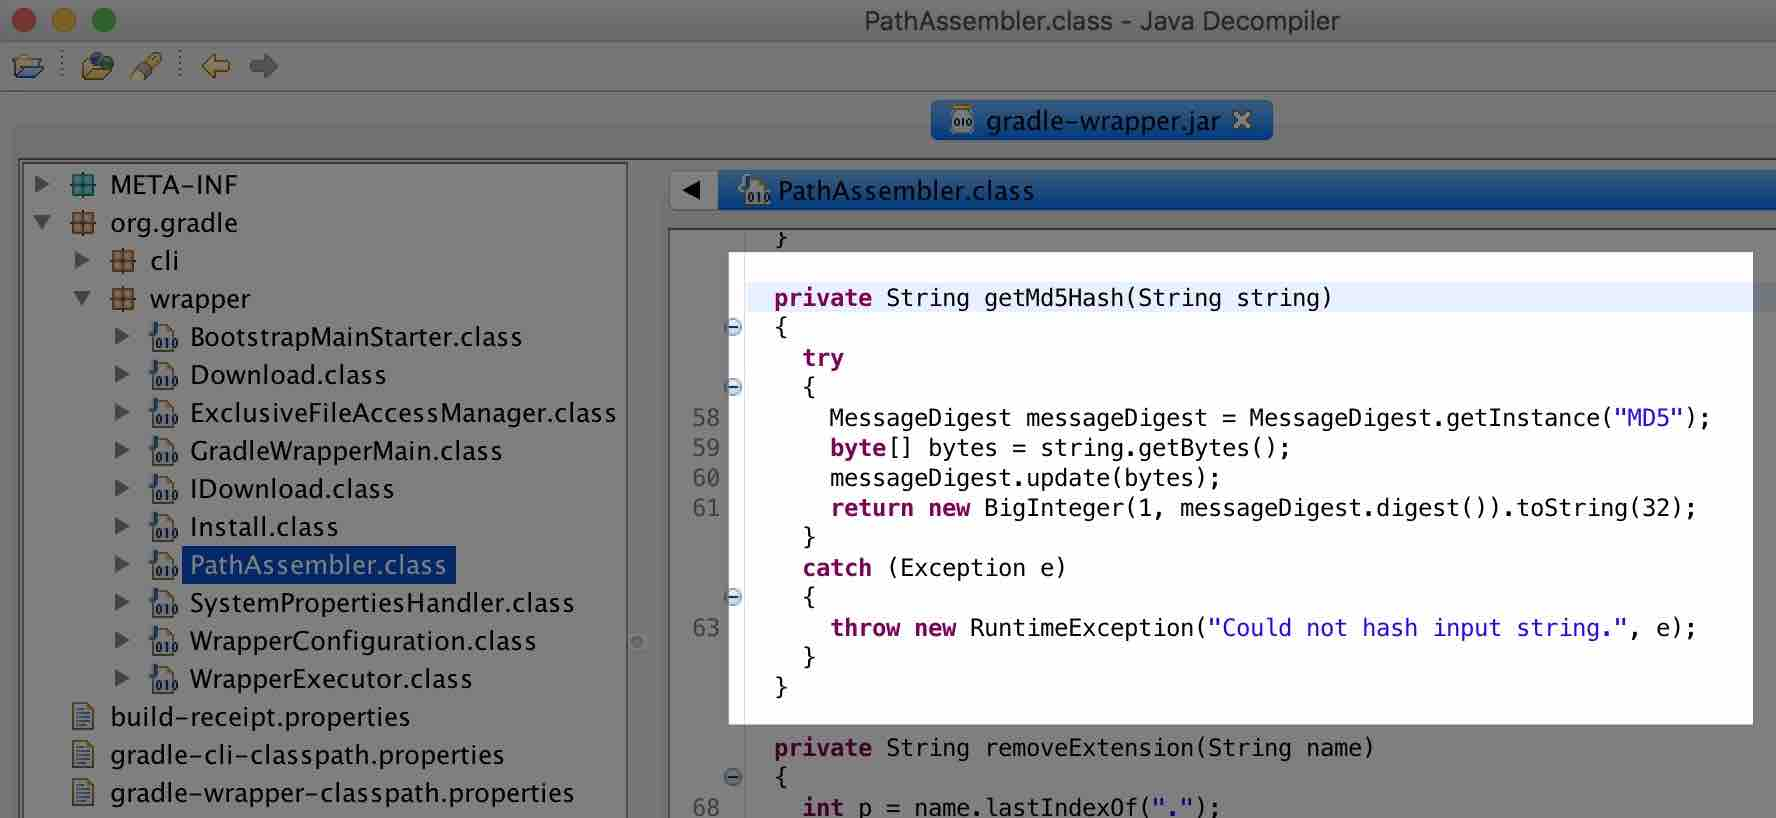
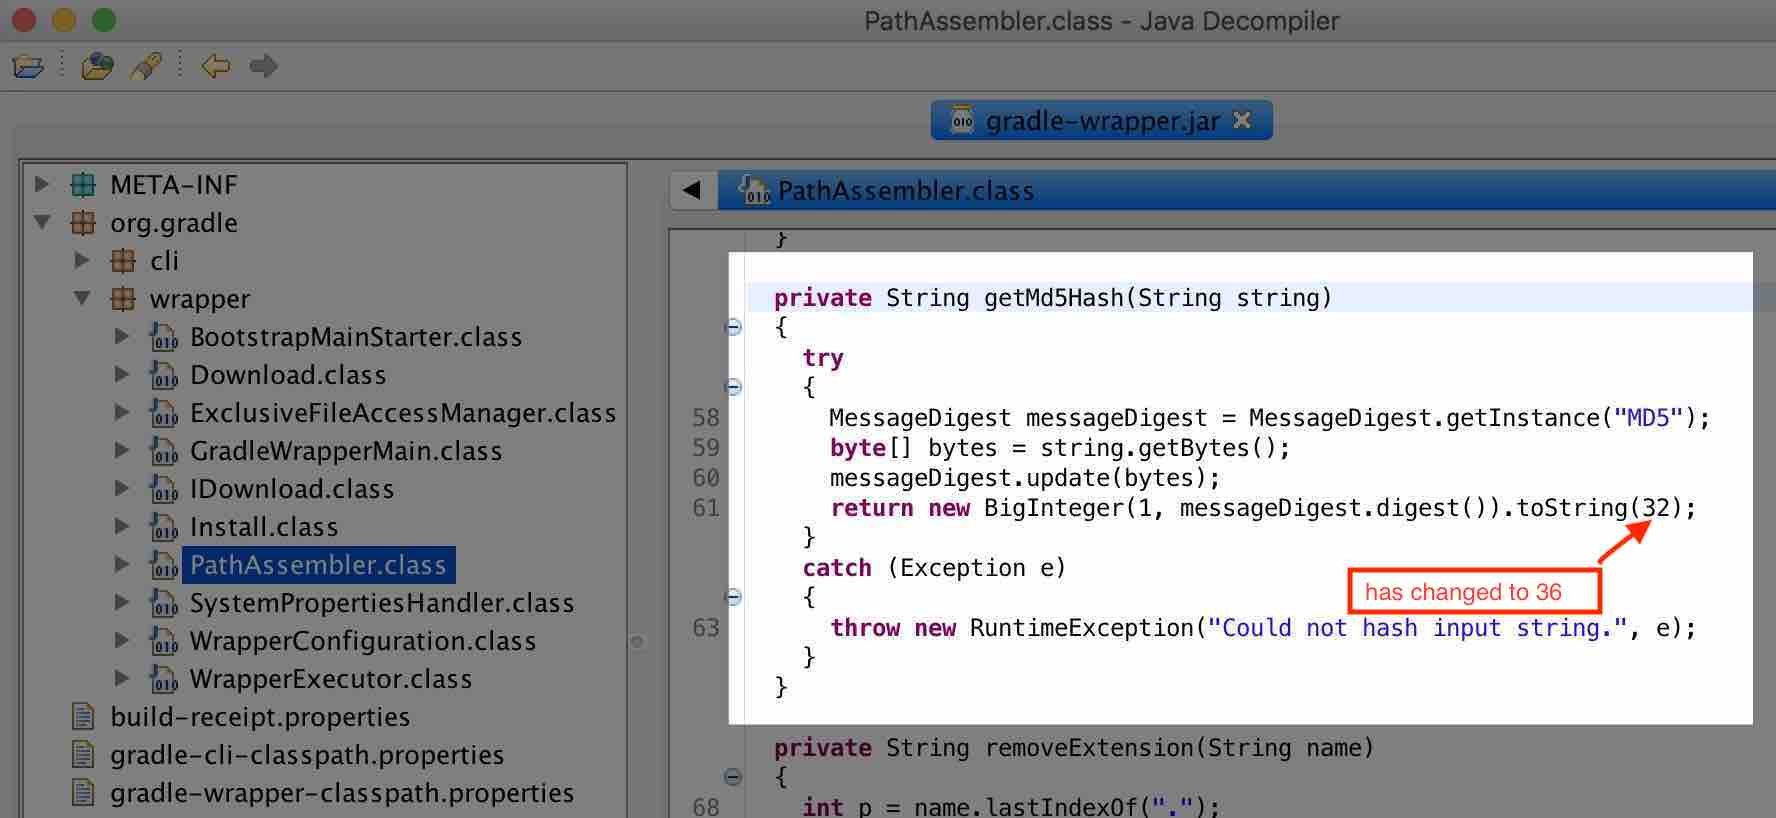
update readme

Changed region(s): [[0.7432, 0.6418, 0.9291, 0.7641]]

diff --git a/README.md b/README.md
@@ -13,6 +13,8 @@
 
 ![reference](image/3.jpg)
 
+**Note:the radix is 32 in old versions and is changed to 36 now.**
+
 ## Build Setup
 ``` bash
 # install dependencies
